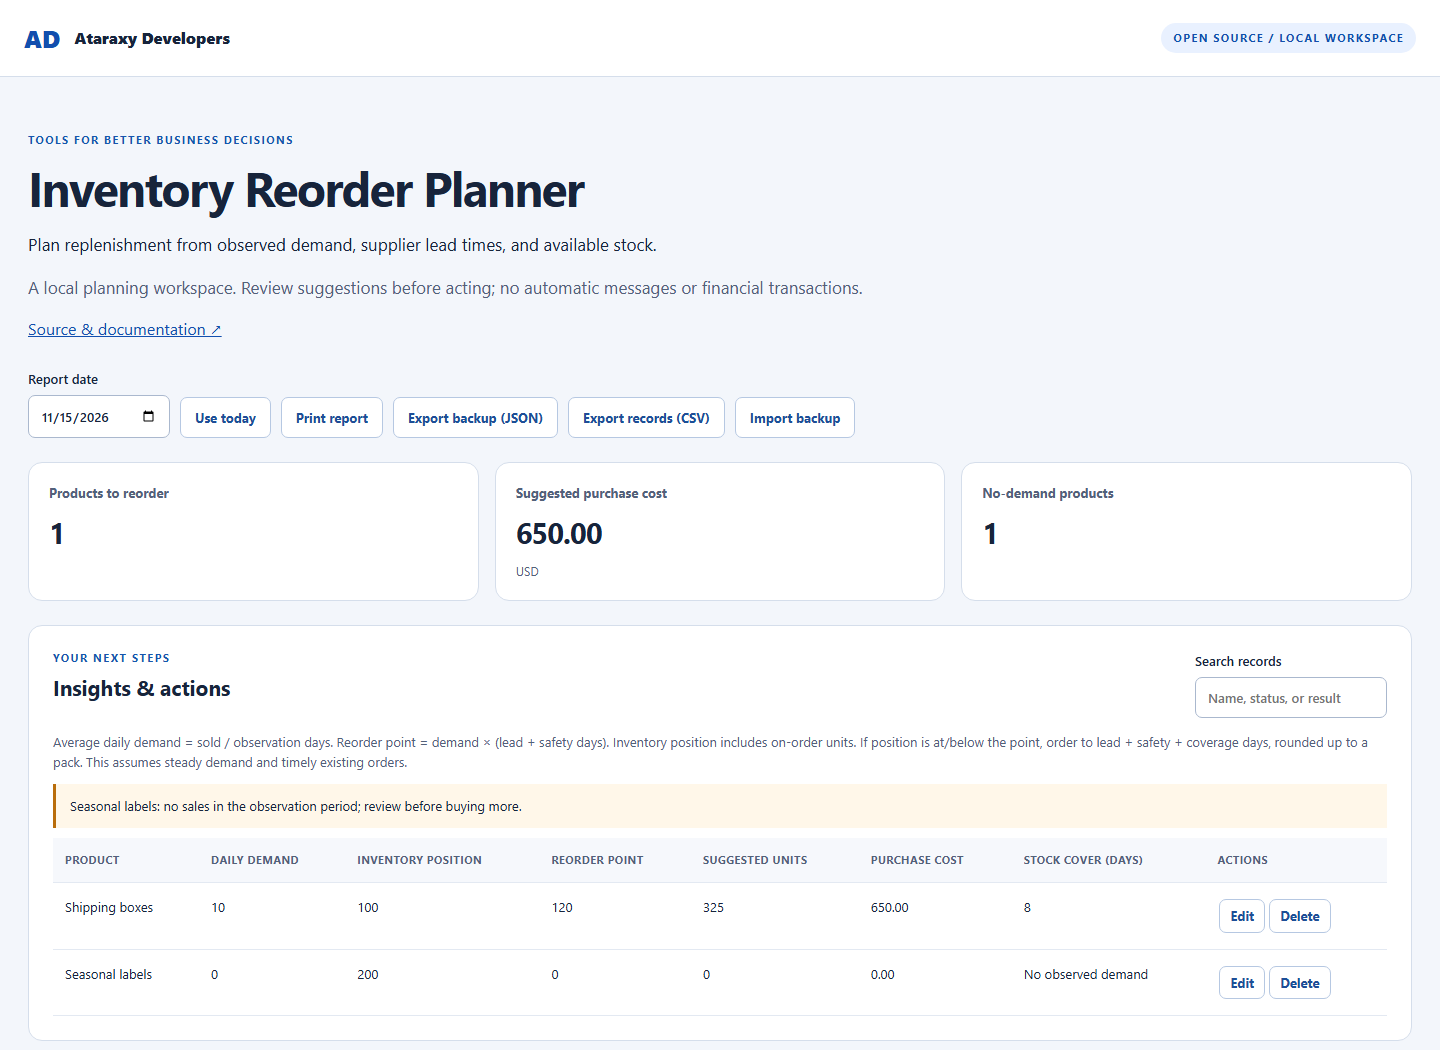
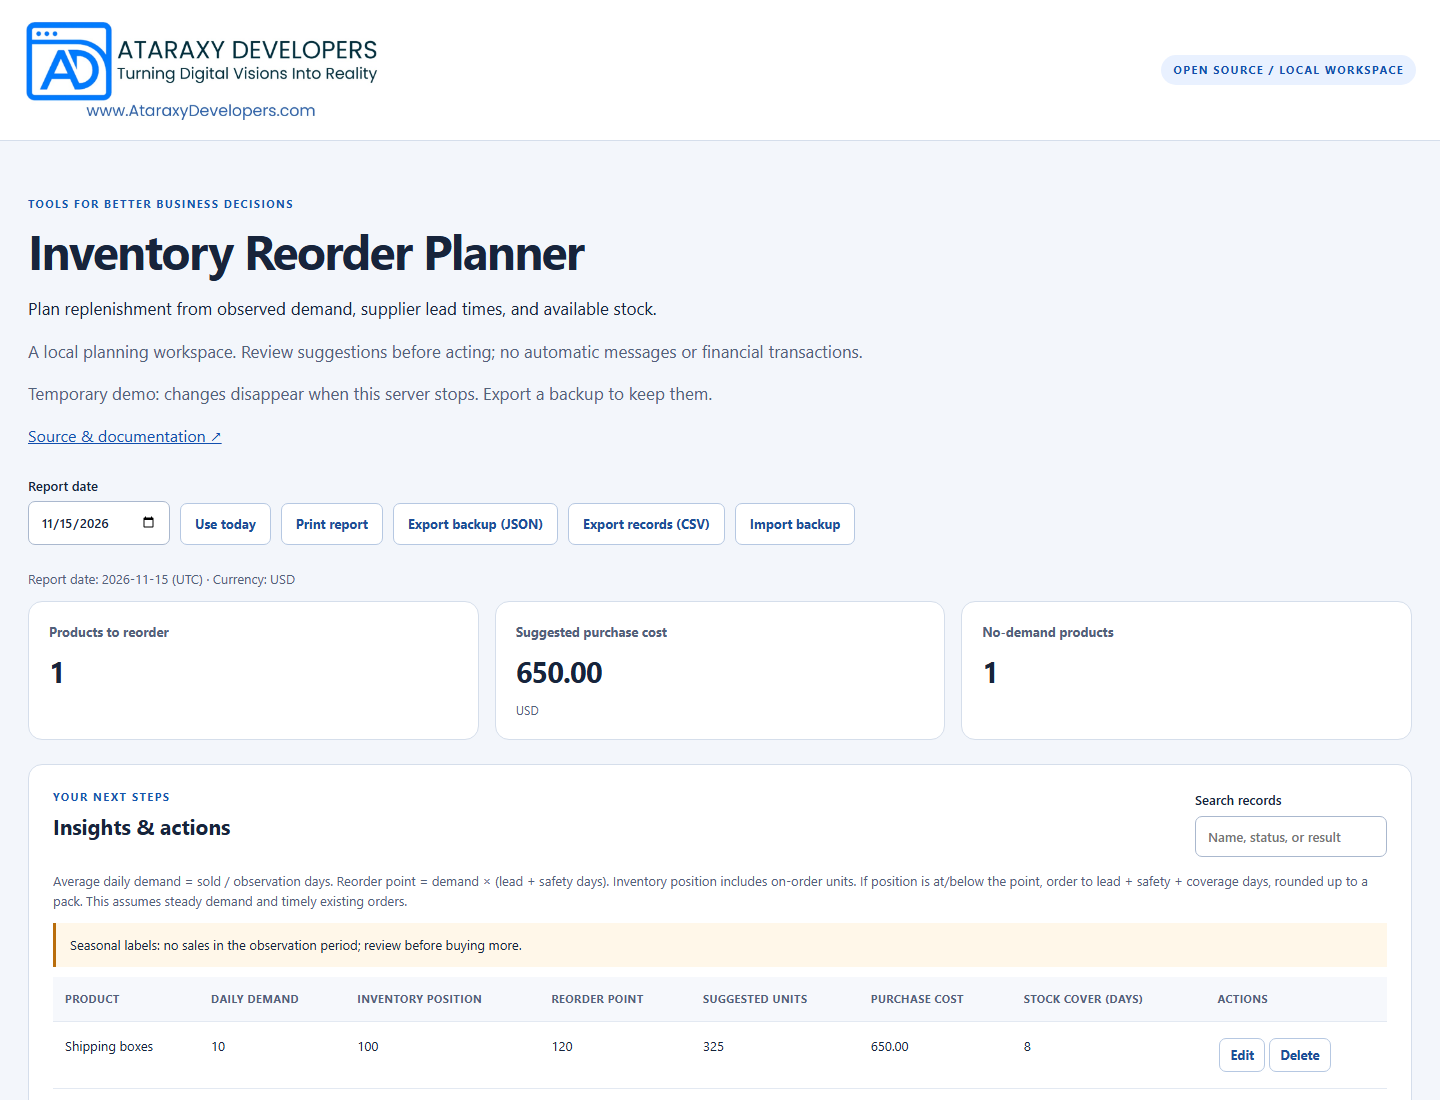
Use approved Ataraxy Developers branding

diff --git a/public/index.html b/public/index.html
@@ -4,16 +4,14 @@
     <meta charset="utf-8" />
     <meta name="viewport" content="width=device-width,initial-scale=1" />
     <title>Business workspace · Ataraxy Developers</title>
-    <link rel="icon" href="/favicon.svg" />
+    <link rel="icon" href="/ataraxy-developers-logo.png" type="image/png" />
     <link rel="stylesheet" href="/style.css" />
     <script type="module" src="/app.js"></script>
   </head>
   <body>
     <a class="skip" href="#main">Skip to workspace</a>
     <header>
-      <a class="brand" href="https://ataraxydevelopers.com"
-        >AD <span>Ataraxy Developers</span></a
-      ><span class="badge">OPEN SOURCE / LOCAL WORKSPACE</span>
+      <a class="brand" href="https://ataraxydevelopers.com"><img src="/ataraxy-developers-logo.png" alt="Ataraxy Developers — Turning Digital Visions Into Reality" width="1127" height="313" /></a><span class="badge">OPEN SOURCE / LOCAL WORKSPACE</span>
     </header>
     <main id="main">
       <section class="hero">

diff --git a/public/style.css b/public/style.css
@@ -40,10 +40,6 @@ header {
   font-weight: 800;
   text-decoration: none;
 }
-.brand span {
-  font-size: 16px;
-  color: #17243b;
-}
 .badge,
 .eyebrow {
   font-size: 11px;
@@ -364,3 +360,9 @@ footer {
     font-size: 27px;
   }
 }
+
+/* Use the complete, original company artwork without distortion. */
+header { flex-wrap: wrap; gap: 16px; background: #fff; }
+.brand { display: block; flex: 0 1 360px; min-width: 0; max-width: 100%; background: #fff; }
+.brand img { display: block; width: 360px; max-width: 100%; height: auto; }
+@media (max-width: 600px) { header { padding: 18px 20px; } .brand { flex-basis: 360px; } }

diff --git a/BRANDING.md b/BRANDING.md
@@ -1,0 +1,10 @@
+# Ataraxy Developers branding
+
+The company-approved logo is [public/ataraxy-developers-logo.png](public/ataraxy-developers-logo.png). It is the original PNG supplied by Ataraxy Developers on 2026-11-16, unchanged.
+
+- Preserve the complete artwork, its aspect ratio, and its white background.
+- Do not redraw it or substitute typed initials, an invented monogram, or generated artwork.
+- Use readable sizing and descriptive alternative text.
+- Capture screenshots from the working interface after this logo has loaded.
+
+SHA-256: 87ebc5a0092af0fff4524e805730ca3dc97c4483bd49f866528b8cdb97d422e7

diff --git a/README.md b/README.md
@@ -1,3 +1,5 @@
+<p><a href="https://ataraxydevelopers.com"><img src="public/ataraxy-developers-logo.png" alt="Ataraxy Developers — Turning Digital Visions Into Reality" width="520"></a></p>
+
 # Inventory Reorder Planner
 
 [![CI](https://github.com/AtaraxyDevelopers/inventory-reorder-planner/actions/workflows/ci.yml/badge.svg)](https://github.com/AtaraxyDevelopers/inventory-reorder-planner/actions/workflows/ci.yml)

diff --git a/CHANGELOG.md b/CHANGELOG.md
@@ -1,5 +1,9 @@
 # Changelog
 
+## 0.1.2 — 2026-11-16
+
+Use the original, approved Ataraxy Developers logo and document its source. Update the interface and browser icon, serve the PNG correctly, and replace the README screenshot with a capture of the corrected app.
+
 ## 0.1.1
 
 - Correct optional date defaults when adding records.
